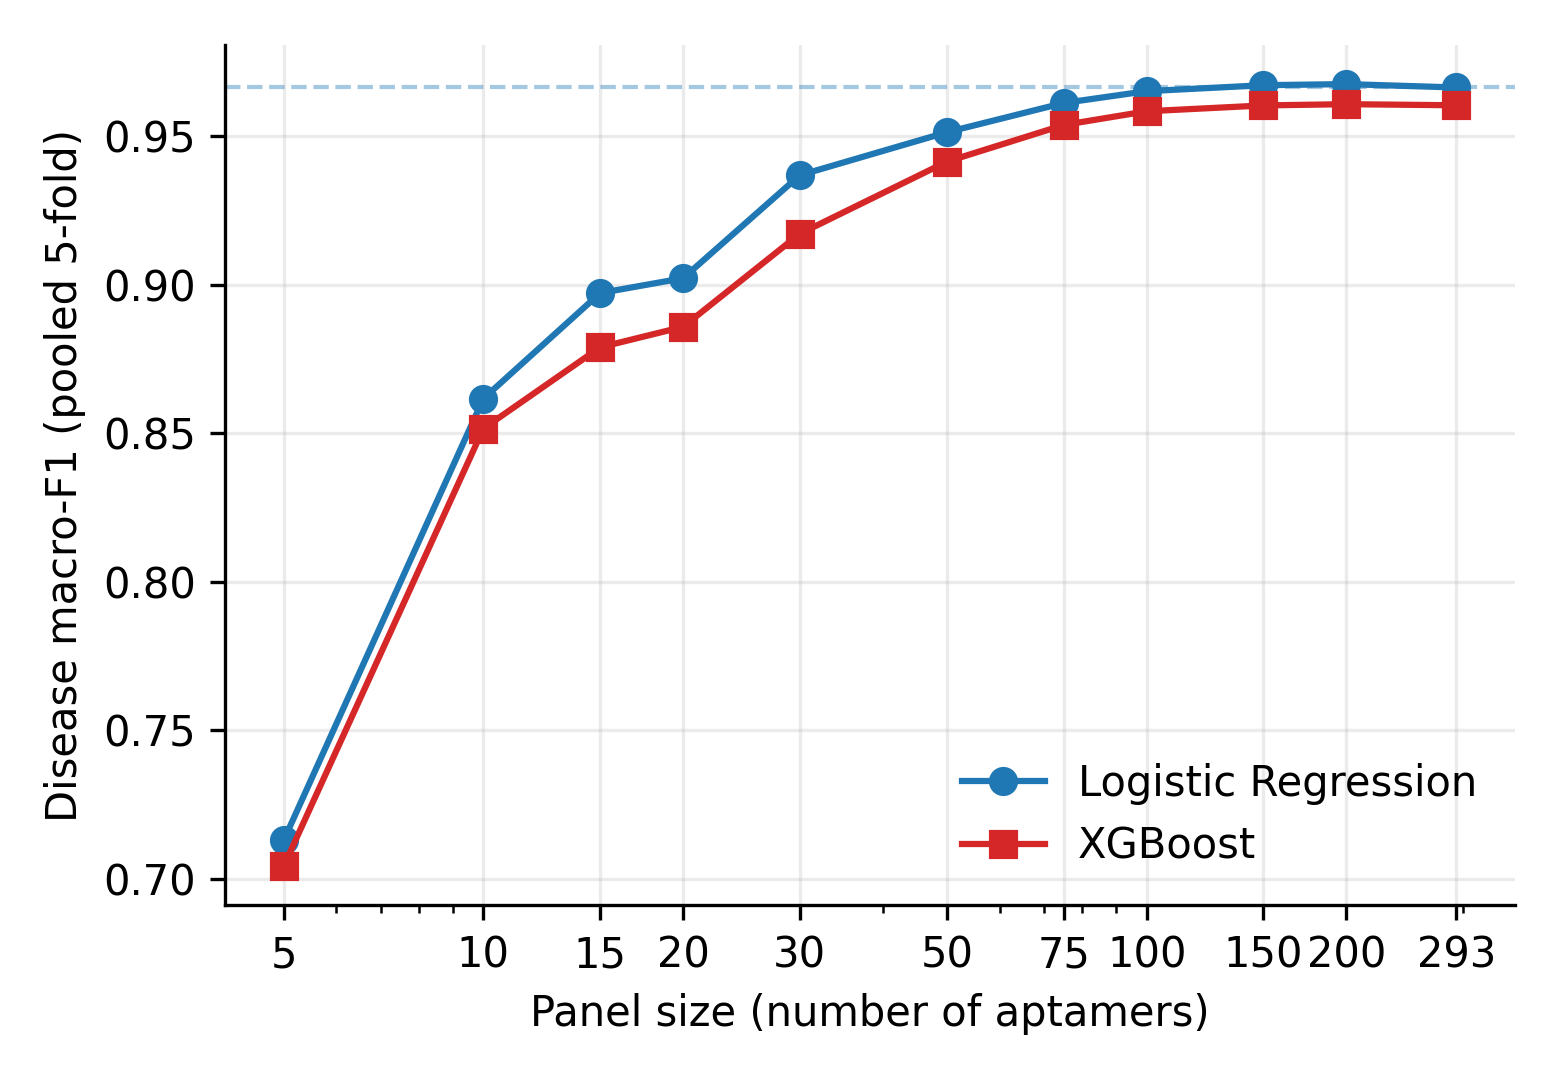
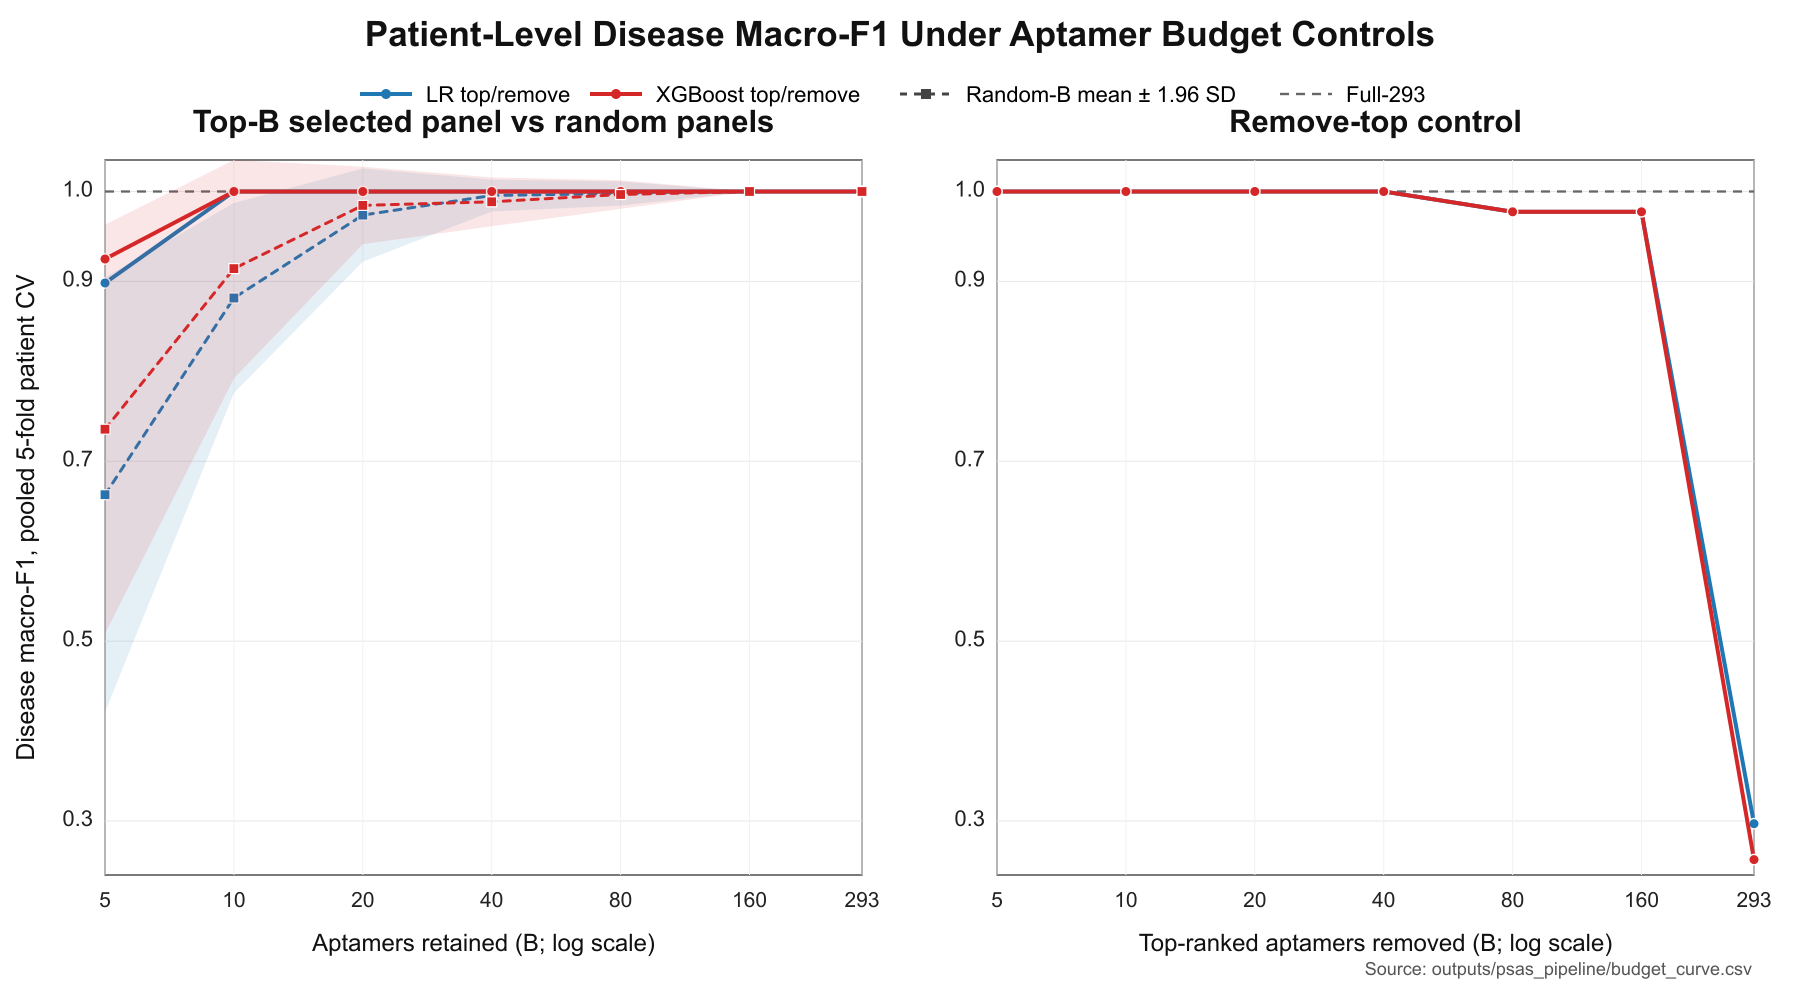
Regenerate panel budget curve from PSAS results

diff --git a/main/results.tex b/main/results.tex
@@ -45,11 +45,14 @@ The compact-panel analysis in Appendix~\ref{sec:appendix:minimal_panel} provides
 
 \begin{figure}[tb]
 \centering
-\includegraphics[width=0.68\columnwidth]{figures/panel_size_curve.png}
+\includegraphics[width=\columnwidth]{figures/panel_size_curve.png}
 \caption{
-Patient-level disease macro-F1 versus aptamer budget under nested panel
-selection. Performance saturates quickly, while random and remove-top
-controls show that disease signal is distributed across many aptamers.
+Patient-level disease macro-F1 under aptamer-budget controls. Left:
+Top-$B$ selected panels use $B$ retained aptamers; Random-$B$ shows the
+mean random-panel performance with the saved summary interval
+(mean $\pm 1.96$ SD). Right: Remove-Top-$B$ uses a separate x-axis,
+where $B$ denotes the number of top-ranked aptamers removed rather than
+the number retained. The full-panel reference uses all 293 aptamers.
 }
 \label{fig:panel_curve_main}
 \end{figure}
